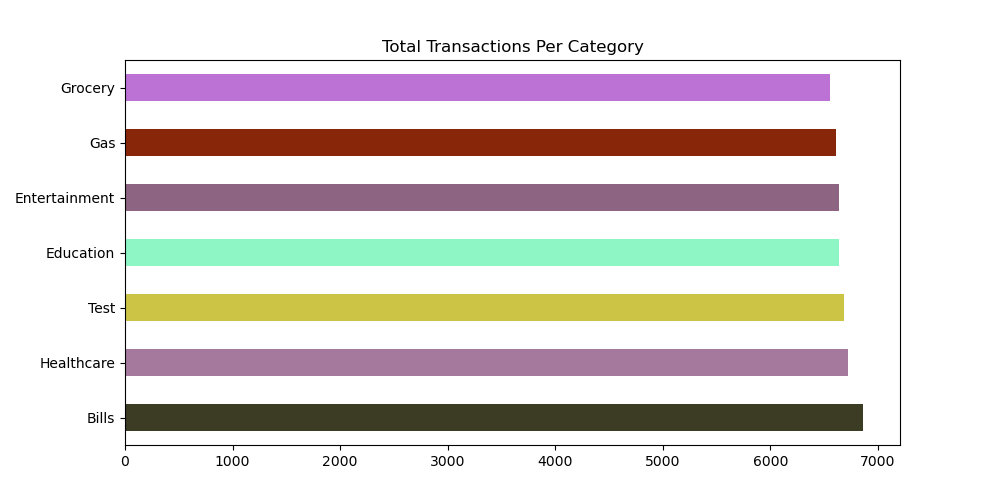
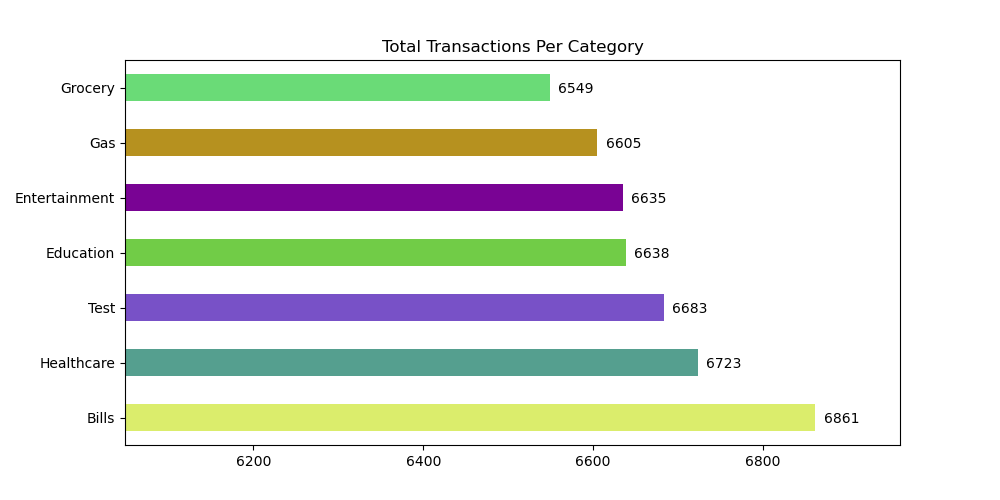
Completed code accessing API endpoint for the loan app dataset. Modified section 3 and updated section 3 graph screenshots.

diff --git a/.venv/3_dataviz.py b/.venv/3_dataviz.py
@@ -32,12 +32,24 @@ branch_cc_df = pd.merge(branch_df, cc_df, how='inner', on='BRANCH_CODE')
 def set_colors(num):
     return ["#"+''.join([random.choice('0123456789ABCDEF') for j in range(6)]) for i in range(num)]
 
-transaction_colors = set_colors(len(cc_df['TRANSACTION_TYPE'].unique()))
-cc_df['TRANSACTION_TYPE'].value_counts().plot(kind='barh', figsize=(10, 5), color=transaction_colors, title='Total Transactions Per Category')
+
+categories = cc_df['TRANSACTION_TYPE'].value_counts()
+transaction_colors = set_colors(len(categories))
+categories.plot(kind='barh', figsize=(10, 5),
+                xlim=(categories.min()-500,categories.max()+100),
+                color=transaction_colors, 
+                title='Total Transactions Per Category')
+for index, value in enumerate(categories):
+    plt.text(value+10, index-0.1, str(value))
 plt.show()
 
-state_colors = set_colors(len(customer_df['CUST_STATE'].unique()))
-customer_df['CUST_STATE'].value_counts().plot(kind='barh', figsize=(10, 5), color=state_colors, title='Total Number of Customers Per State')
+
+states = customer_df['CUST_STATE'].value_counts()
+state_colors = set_colors(len(states))
+states.plot(kind='barh', figsize=(10, 5), color=state_colors,
+            title='Total Number of Customers Per State')
+for index, value in enumerate(states):
+    plt.text(value+0.6, index-0.4, str(value))
 plt.show()
 
 highest_20 = customer_cc_df.groupby('CUST_SSN')['TRANSACTION_VALUE'] \
@@ -45,8 +57,12 @@ highest_20 = customer_cc_df.groupby('CUST_SSN')['TRANSACTION_VALUE'] \
                            .sort_values(ascending=False) \
                            .head(20)
 highest_colors = set_colors(len(highest_20))
-highest_20.plot(kind='barh', figsize=(10, 5), color=highest_colors,
+highest_20.plot(kind='barh', figsize=(10, 5),
+                xlim=(highest_20.min()-200,highest_20.max()+100),
+                color=highest_colors, xlabel='Account Number',
                 title='Top 20 Total Transaction Amounts Per Customer')
+for index, value in enumerate(highest_20):
+    plt.text(value+10, index-0.25, '$'+str(value))
 plt.show()
 
 
@@ -55,9 +71,13 @@ top_3_months = cc_df['MONTH'].value_counts() \
                              .head(3)
 top_colors = set_colors(len(top_3_months))
 top_3_months.plot(kind='barh', figsize=(10, 5),
-                  color=top_colors, xlabel='Month', ylabel='# of Transactions',
-                  title='Top 3 Total # of Transaction Per Month')
+                  xlim=(top_3_months.min()-50,top_3_months.max()+20),
+                  color=top_colors, xlabel='Month',
+                  title='Top 3 Total # of Transactions Per Month')
+for index, value in enumerate(top_3_months):
+    plt.text(value+1, index-0.04, str(value))
 plt.show()
+
 
 branch_health = cc_df[cc_df['TRANSACTION_TYPE']=='Healthcare'].groupby('BRANCH_CODE', as_index=False)['TRANSACTION_VALUE'] \
                                                               .sum() \
@@ -67,11 +87,15 @@ branch_health.plot(kind='scatter', x='BRANCH_CODE', y='TRANSACTION_VALUE',
                    figsize=(30, 10), color=branch_colors, xlabel='Branch #',
                    ylabel='Total Value of Healthcare Transactions',
                    title='Total $ Value of Healthcare Transactions Per Branch')
+branch_health_series = branch_health.set_index('BRANCH_CODE').squeeze()
+for index, value in branch_health_series.items():
+    plt.text(index+1, value-20, '#'+str(index))
 
-for i in range(len(branch_health)):
-    plt.text(x=branch_health['BRANCH_CODE'][i]+1,
-             y=branch_health['TRANSACTION_VALUE'][i]+20,
-             s=branch_health['BRANCH_CODE'][i])
+# alternate method for labeling the scatter plot
+# for i in range(len(branch_health)):
+#     plt.text(x=branch_health['BRANCH_CODE'][i]+1,
+#              y=branch_health['TRANSACTION_VALUE'][i]+20,
+#              s=branch_health['BRANCH_CODE'][i])
 
 plt.show()
 

diff --git a/.venv/4_loadloanapp.py b/.venv/4_loadloanapp.py
@@ -1,0 +1,5 @@
+import requests
+
+api_url = 'https://raw.githubusercontent.com/platformps/LoanDataset/main/loan_data.json'
+response = requests.get(api_url)
+loan_data = response.json()
